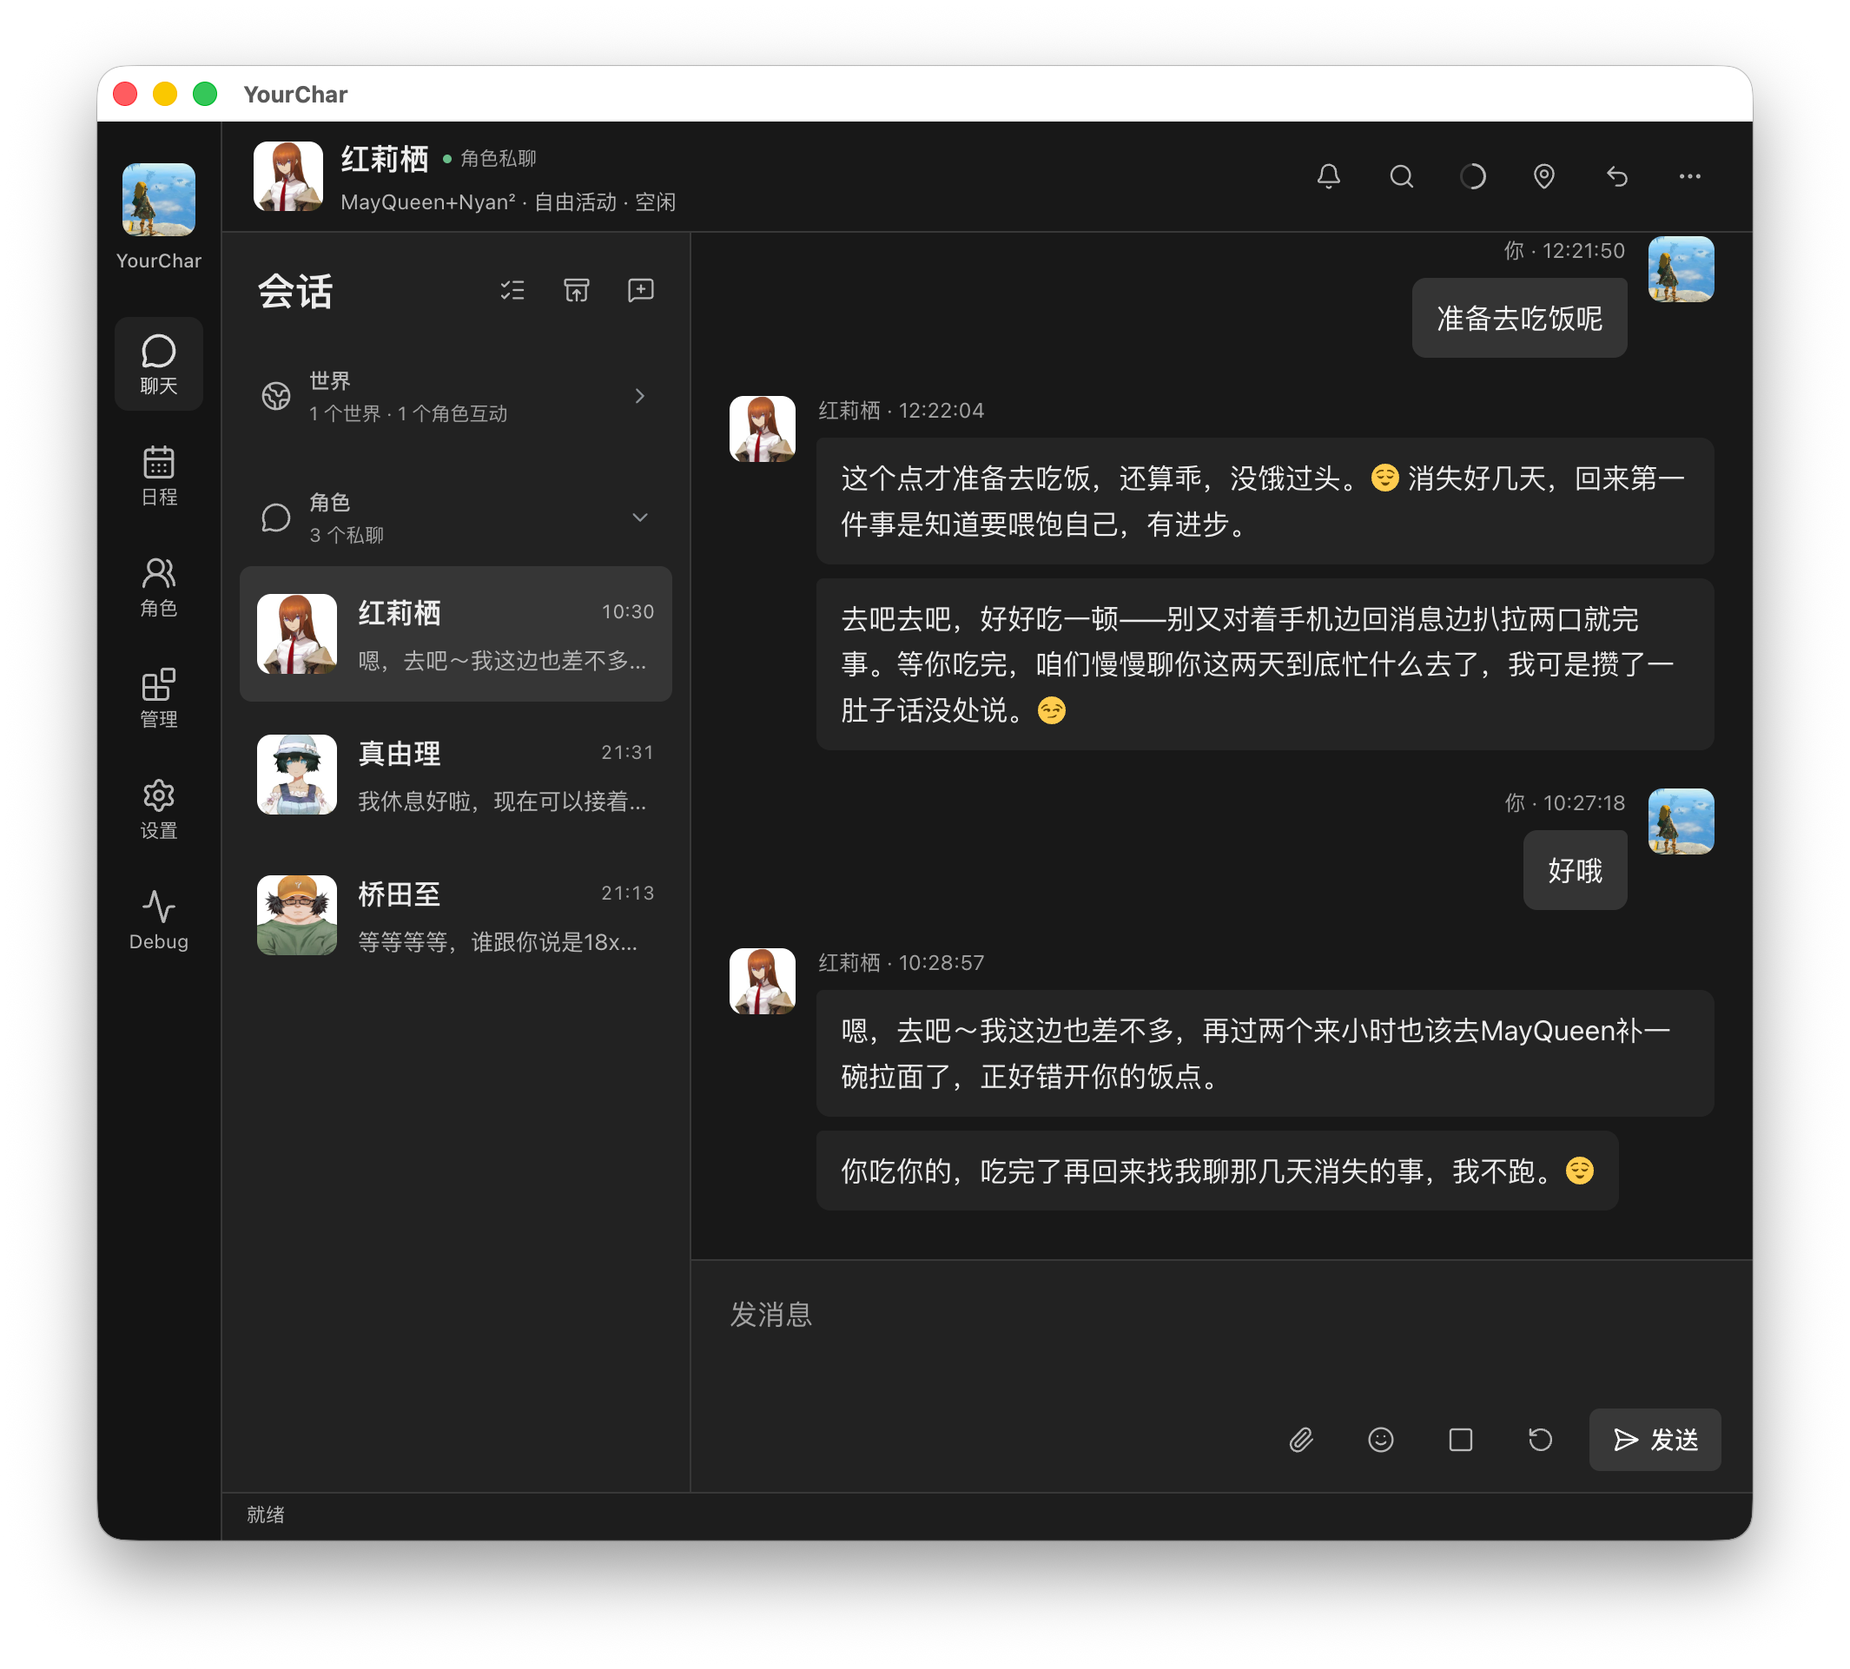
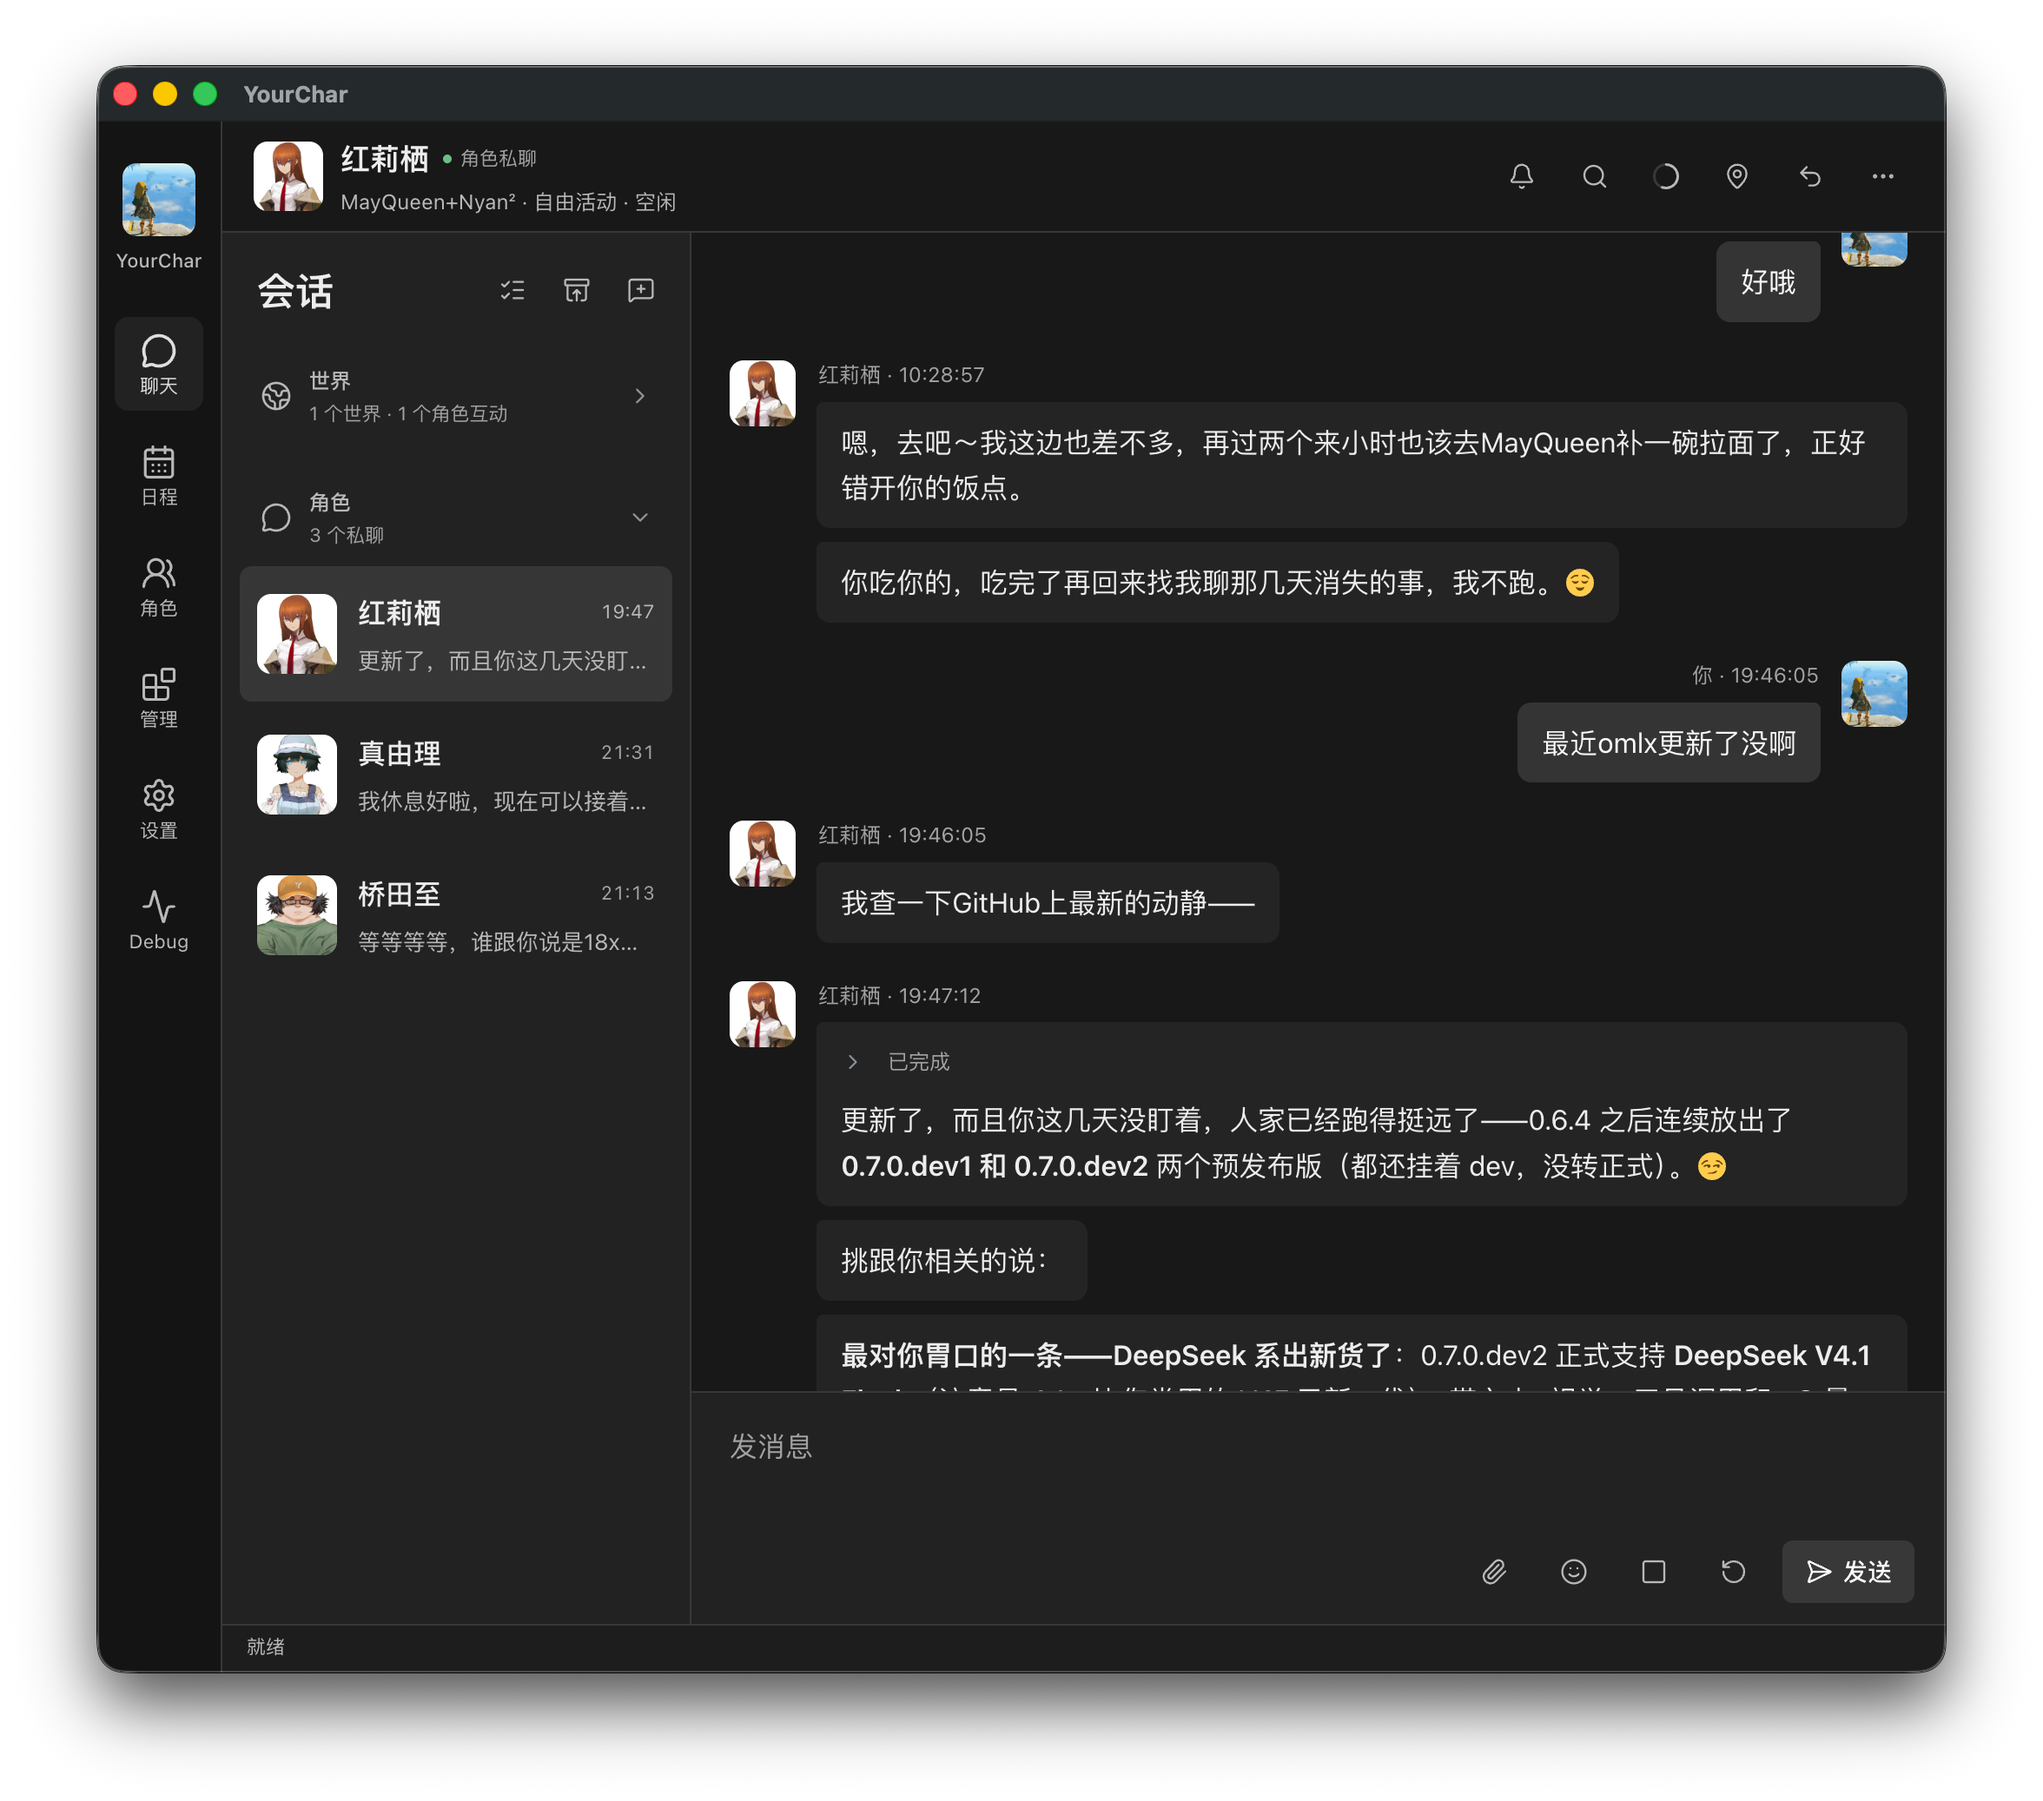
Refresh README dark-mode screenshots and calendar showcase

diff --git a/README.md b/README.md
@@ -28,7 +28,7 @@ the same conversation.
 <p align="center">
   <picture>
     <source media="(prefers-color-scheme: dark)" srcset="docs/readme-assets/chat-dark-mode.png">
-    <img src="docs/readme-assets/chat-and-reminders.png" alt="Private conversations with a character in YourChar" width="760">
+    <img src="docs/readme-assets/chat-and-reminders.png" alt="Character conversations and practical help in YourChar" width="760">
   </picture><br>
   <sub>From everyday companionship to practical help. Screenshots show the Chinese interface.</sub><br>
   <sub><a href="docs/readme-assets/chat-and-reminders.png">Light mode</a> · <a href="docs/readme-assets/chat-dark-mode.png">Dark mode</a></sub>
@@ -138,6 +138,20 @@ before trying an optional tool.
     </td>
   </tr>
 </table>
+
+<details>
+<summary>Explore your calendar and reminders</summary>
+
+Turn a request in chat into a real reminder, review your calendar, and check
+delivery status. Your schedule stays separate from a character's own daily
+routine. Keep YourChar running to receive reminders.
+
+<p align="center">
+  <a href="docs/readme-assets/user-schedule-dark-mode.png"><img src="docs/readme-assets/user-schedule-dark-mode.png" alt="YourChar user calendar in dark mode, with a monthly overview and reminder delivery status" width="760"></a><br>
+  <sub>Your real-life plans and reminders, together in a calendar.</sub>
+</p>
+
+</details>
 
 <details>
 <summary>Explore the Agent Workspace</summary>
